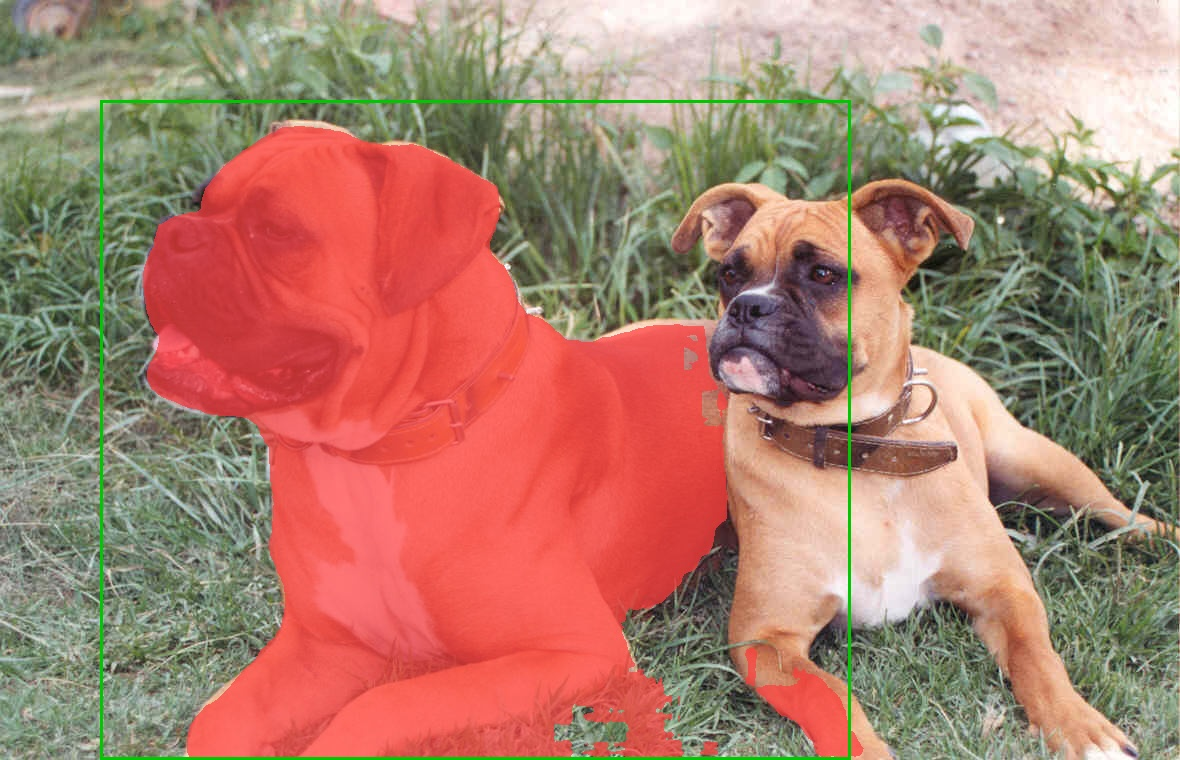
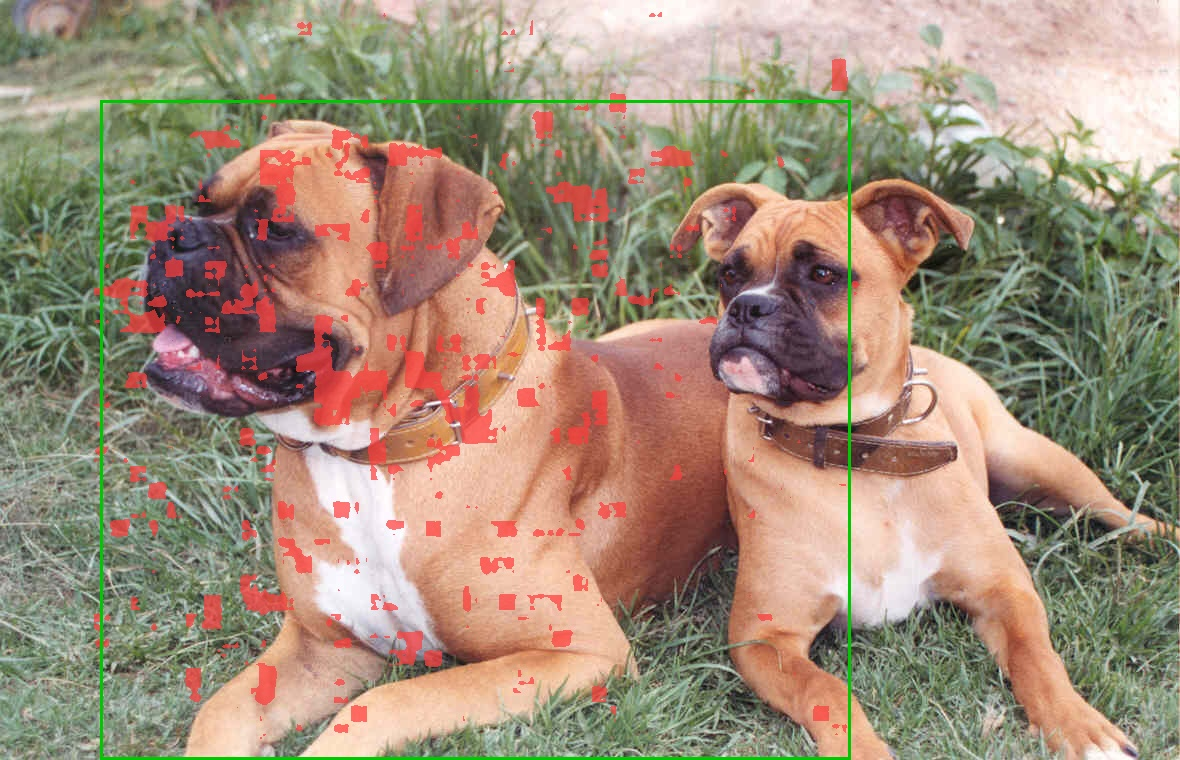
EDGEAI-1204: Fix naive NPU benchmark with Neutron SDK conversion, update visuals and README

diff --git a/scripts/benchmark_imx95_vanilla.py b/scripts/benchmark_imx95_vanilla.py
@@ -384,11 +384,15 @@ def run_npu_benchmark(args):
     # Check if input is quantized
     input_dtype = input_details['dtype']
     input_quant = input_details.get('quantization_parameters', {})
-    input_scale = input_quant.get('scales', np.array([1.0]))[0]
-    input_zp = input_quant.get('zero_points', np.array([0]))[0]
+    input_scales = input_quant.get('scales', np.array([1.0]))
+    input_scale = input_scales[0] if len(input_scales) > 0 else 1.0
+    input_zps = input_quant.get('zero_points', np.array([0]))
+    input_zp = input_zps[0] if len(input_zps) > 0 else 0
     output_quant = output_details.get('quantization_parameters', {})
-    output_scale = output_quant.get('scales', np.array([1.0]))[0]
-    output_zp = output_quant.get('zero_points', np.array([0]))[0]
+    output_scales = output_quant.get('scales', np.array([1.0]))
+    output_scale = output_scales[0] if len(output_scales) > 0 else 1.0
+    output_zps = output_quant.get('zero_points', np.array([0]))
+    output_zp = output_zps[0] if len(output_zps) > 0 else 0
 
     if input_dtype == np.int8:
         print(f"  Input quantization: scale={input_scale}, zero_point={input_zp}")

diff --git a/BENCHMARKS.md b/BENCHMARKS.md
@@ -191,17 +191,31 @@ same ResNet18 FP16 encoder and monolithic MobileSAM FP16 decoder.
 
 ### Naive NPU Conversion (M1b)
 
-**Result: FAILS — accuracy collapse from float islands**
+**Result: FAILS — broken segmentation masks**
 
-The naive `onnx2tf` conversion of NVIDIA's ResNet18 encoder to TFLite INT8
-produces a model with 37 float32 islands from GELU/erf decomposition. When
-run on the Neutron NPU, the output embedding has a cosine similarity of only
-**0.177** vs the ONNX reference — effectively random. The resulting
-segmentation masks are meaningless.
+The naive `onnx2tf` conversion of NVIDIA's ResNet18 encoder to TFLite INT8,
+followed by Neutron SDK compilation (`neutron-converter --target imx95`),
+produces a model with float32 islands from GELU/erf decomposition. The
+converter splits the graph into **2 NeutronGraph partitions** with **8 float
+operators** remaining on CPU (96.4% conversion ratio):
 
-| Vanilla CPU (Correct) | Naive NPU (Broken) |
-|:---:|:---:|
-| ![CPU Correct](assets/benchmark/imx95_vanilla_cpu.jpg) | ![NPU Broken](assets/benchmark/imx95_naive_npu.jpg) |
+```
+WARNING: Graph "main" has FLOAT operators which are NOT supported!
+```
+
+The model runs (encoder: 198 ms) but the float islands corrupt the
+embedding, producing **garbage segmentation masks** (IoU 0.747 vs 0.986
+for EdgeFirst, mask coverage 4.8% vs expected ~29%):
+
+| Vanilla CPU (Correct) | Naive NPU (Broken) | EdgeFirst NPU (Correct) |
+|:---:|:---:|:---:|
+| ![CPU](assets/benchmark/imx95_vanilla_cpu.jpg) | ![Naive NPU](assets/benchmark/imx95_naive_npu.jpg) | ![EdgeFirst](assets/benchmark/imx95_edgefirst.jpg) |
+
+EdgeFirst solves this with a **twin model** approach: rebuild the encoder
+in Keras with tanh-approximate GELU (fully INT8-quantizable), transfer
+weights from PyTorch, and fuse BatchNorm offline. Result: zero float
+islands, full Neutron delegation, encoder at **104.4 ms** with correct
+masks (IoU 0.986).
 
 ### EdgeFirst NanoSAM (M2)
 

diff --git a/README.md b/README.md
@@ -42,6 +42,21 @@ The MobileSAM decoder contains attention layers and runs on CPU (ONNX) on all pl
 | i.MX 95 | Neutron NPU | TFLite INT8 (16 MB) | 178 | 0.9784 | 430 | ~608 |
 | i.MX 8M Plus | VeriSilicon NPU | TFLite INT8 (16 MB) | 336 | 0.9972 | 421 | ~757 |
 
+### EdgeFirst Optimized Pipeline (decomposed decoder, ResNet18 e200)
+
+With the EdgeFirst decomposed decoder (prompt encoder in Rust, attention via
+XNNPACK, heads on NPU, mask assembly on CPU) and HAL preprocessing:
+
+| Platform | Encoder (ms) | Decoder (ms) | Total (ms) | IoU | Notes |
+|----------|:------------:|:------------:|:----------:|:---:|-------|
+| Jetson Orin Nano (MAXN_SUPER) | 15.3 | 6.3 | ~21.6 | 0.99 | TRT FP16 encoder + decoder |
+| i.MX 95 (Neutron) | 104.4 | 146.2 | ~331 | 0.986 | Twin model INT8, XNNPACK attention |
+| i.MX 95 (CPU only, ONNX) | 2953 | 402 | ~3459 | 0.99 | Baseline without NPU |
+
+Naive `onnx2tf` → Neutron conversion **fails** due to float islands from
+GELU/erf — masks are broken (IoU 0.747). See [BENCHMARKS.md](BENCHMARKS.md)
+for full methodology, per-stage breakdown, and visual comparisons.
+
 ---
 
 ## Getting Started
